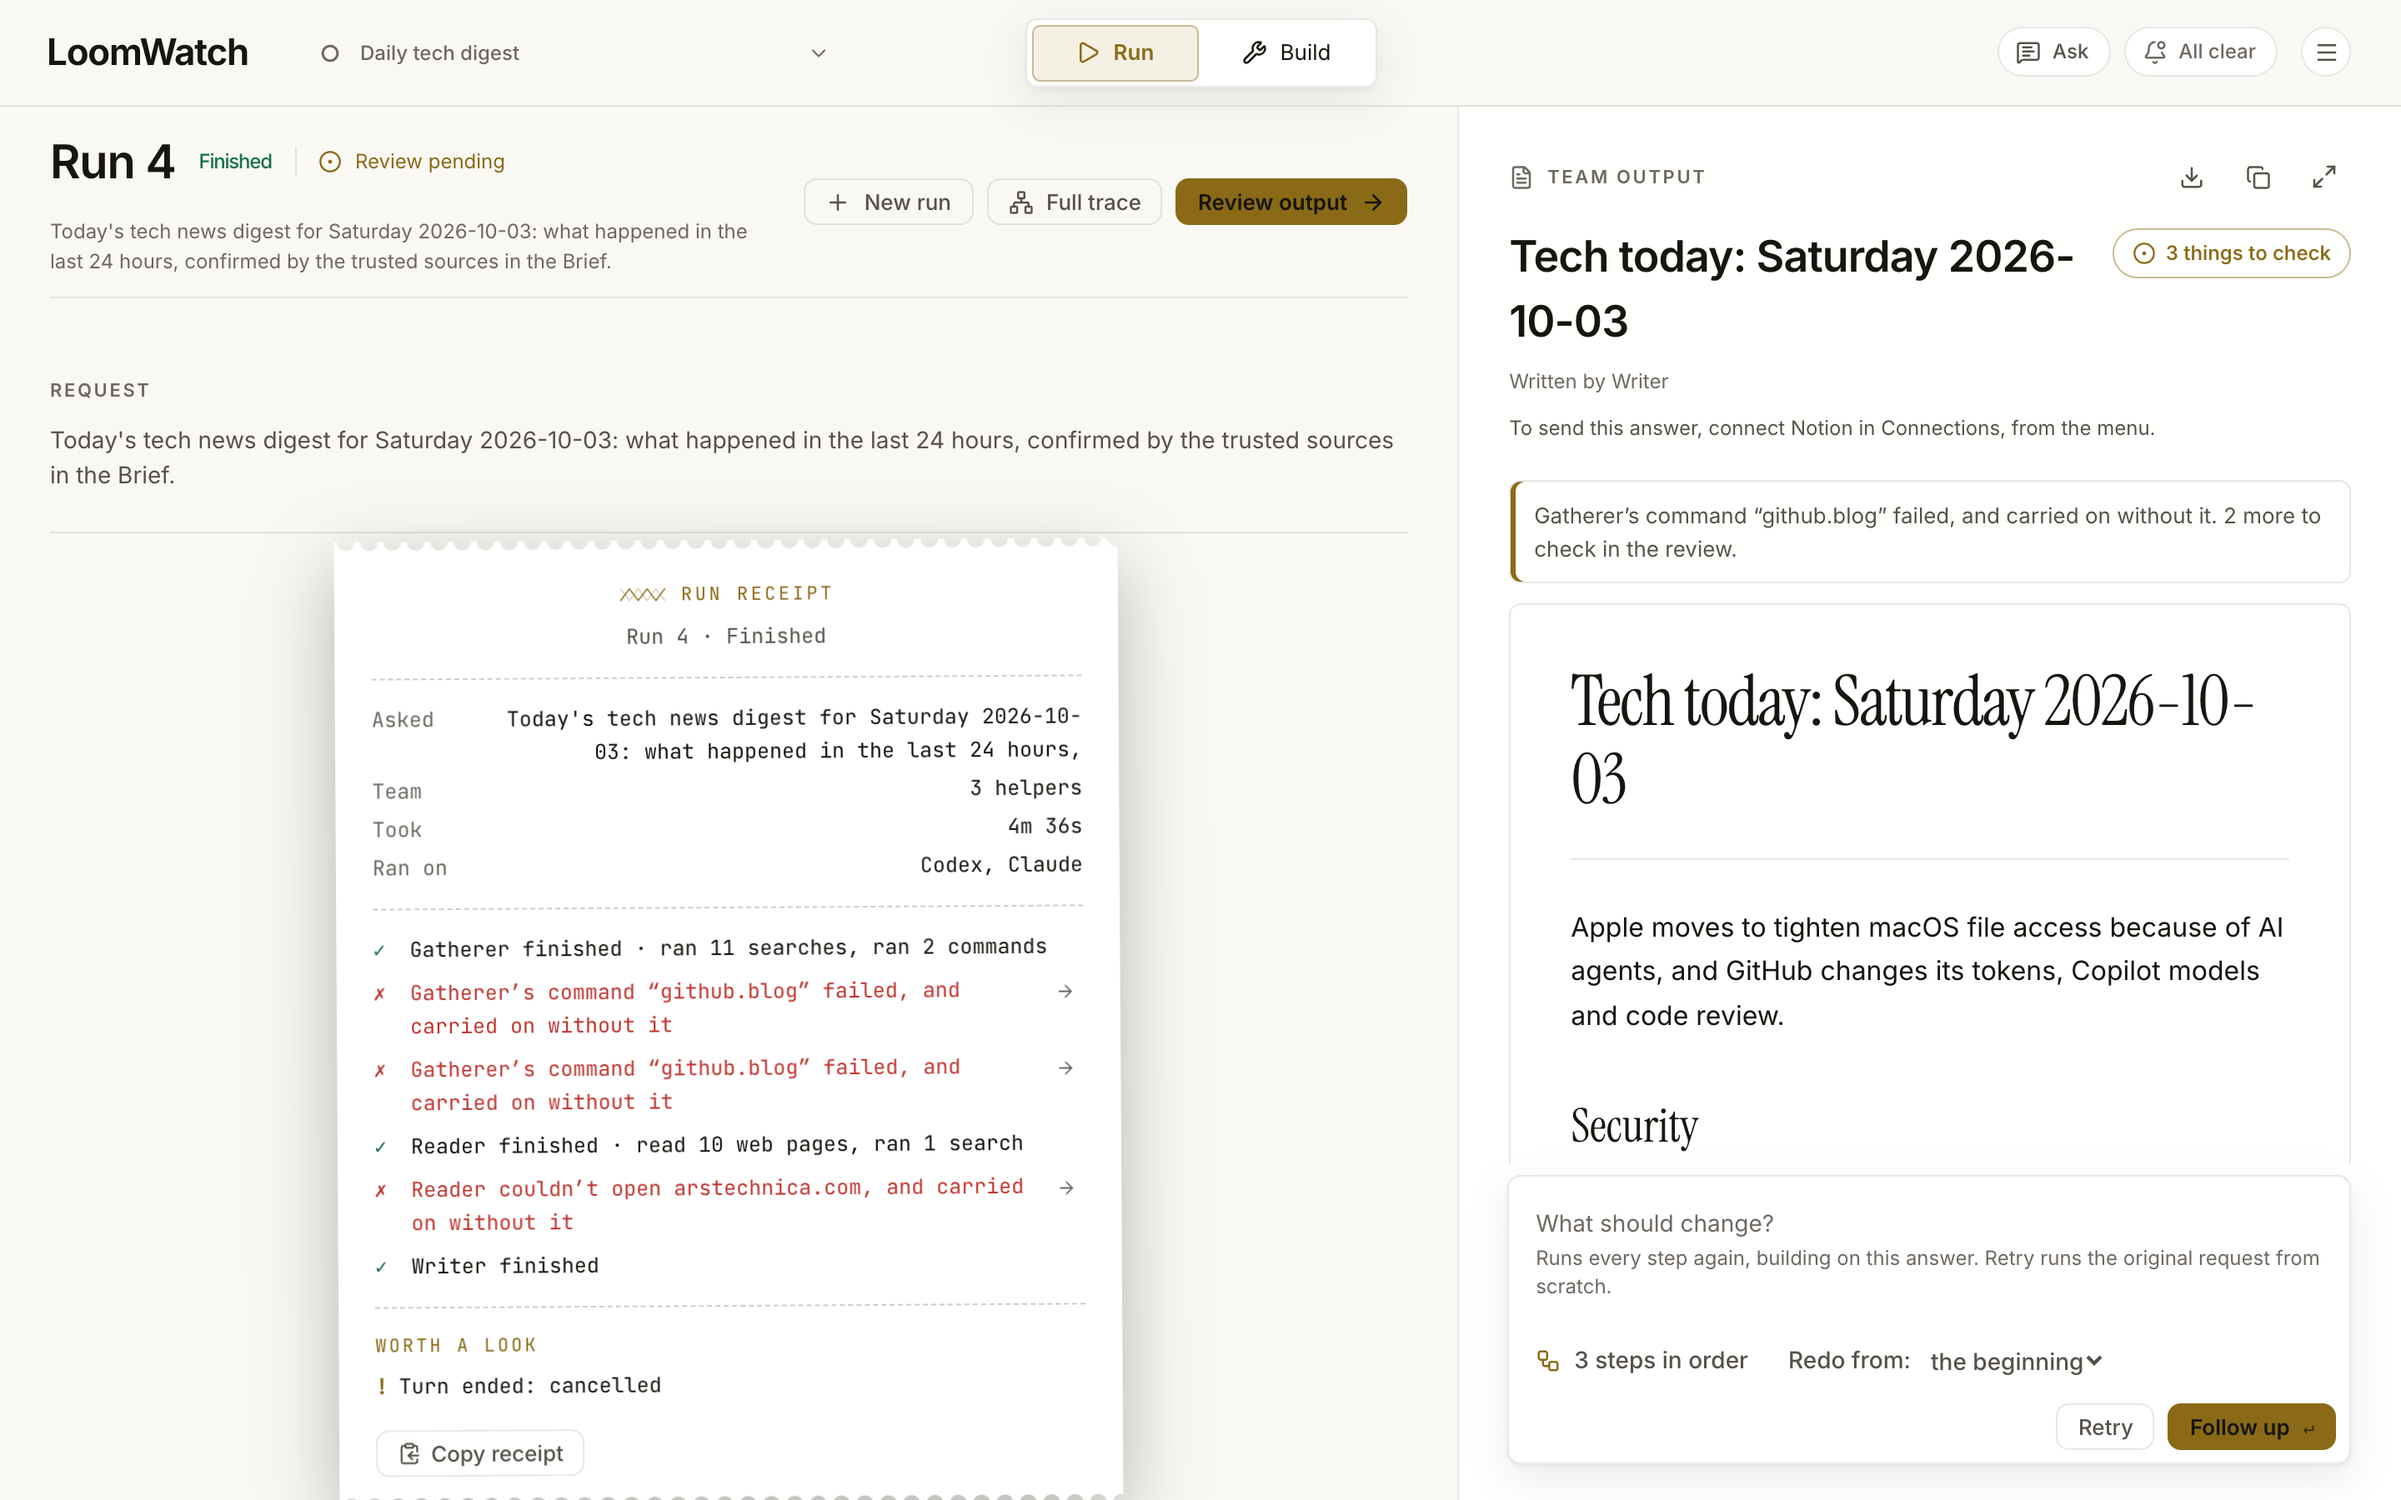
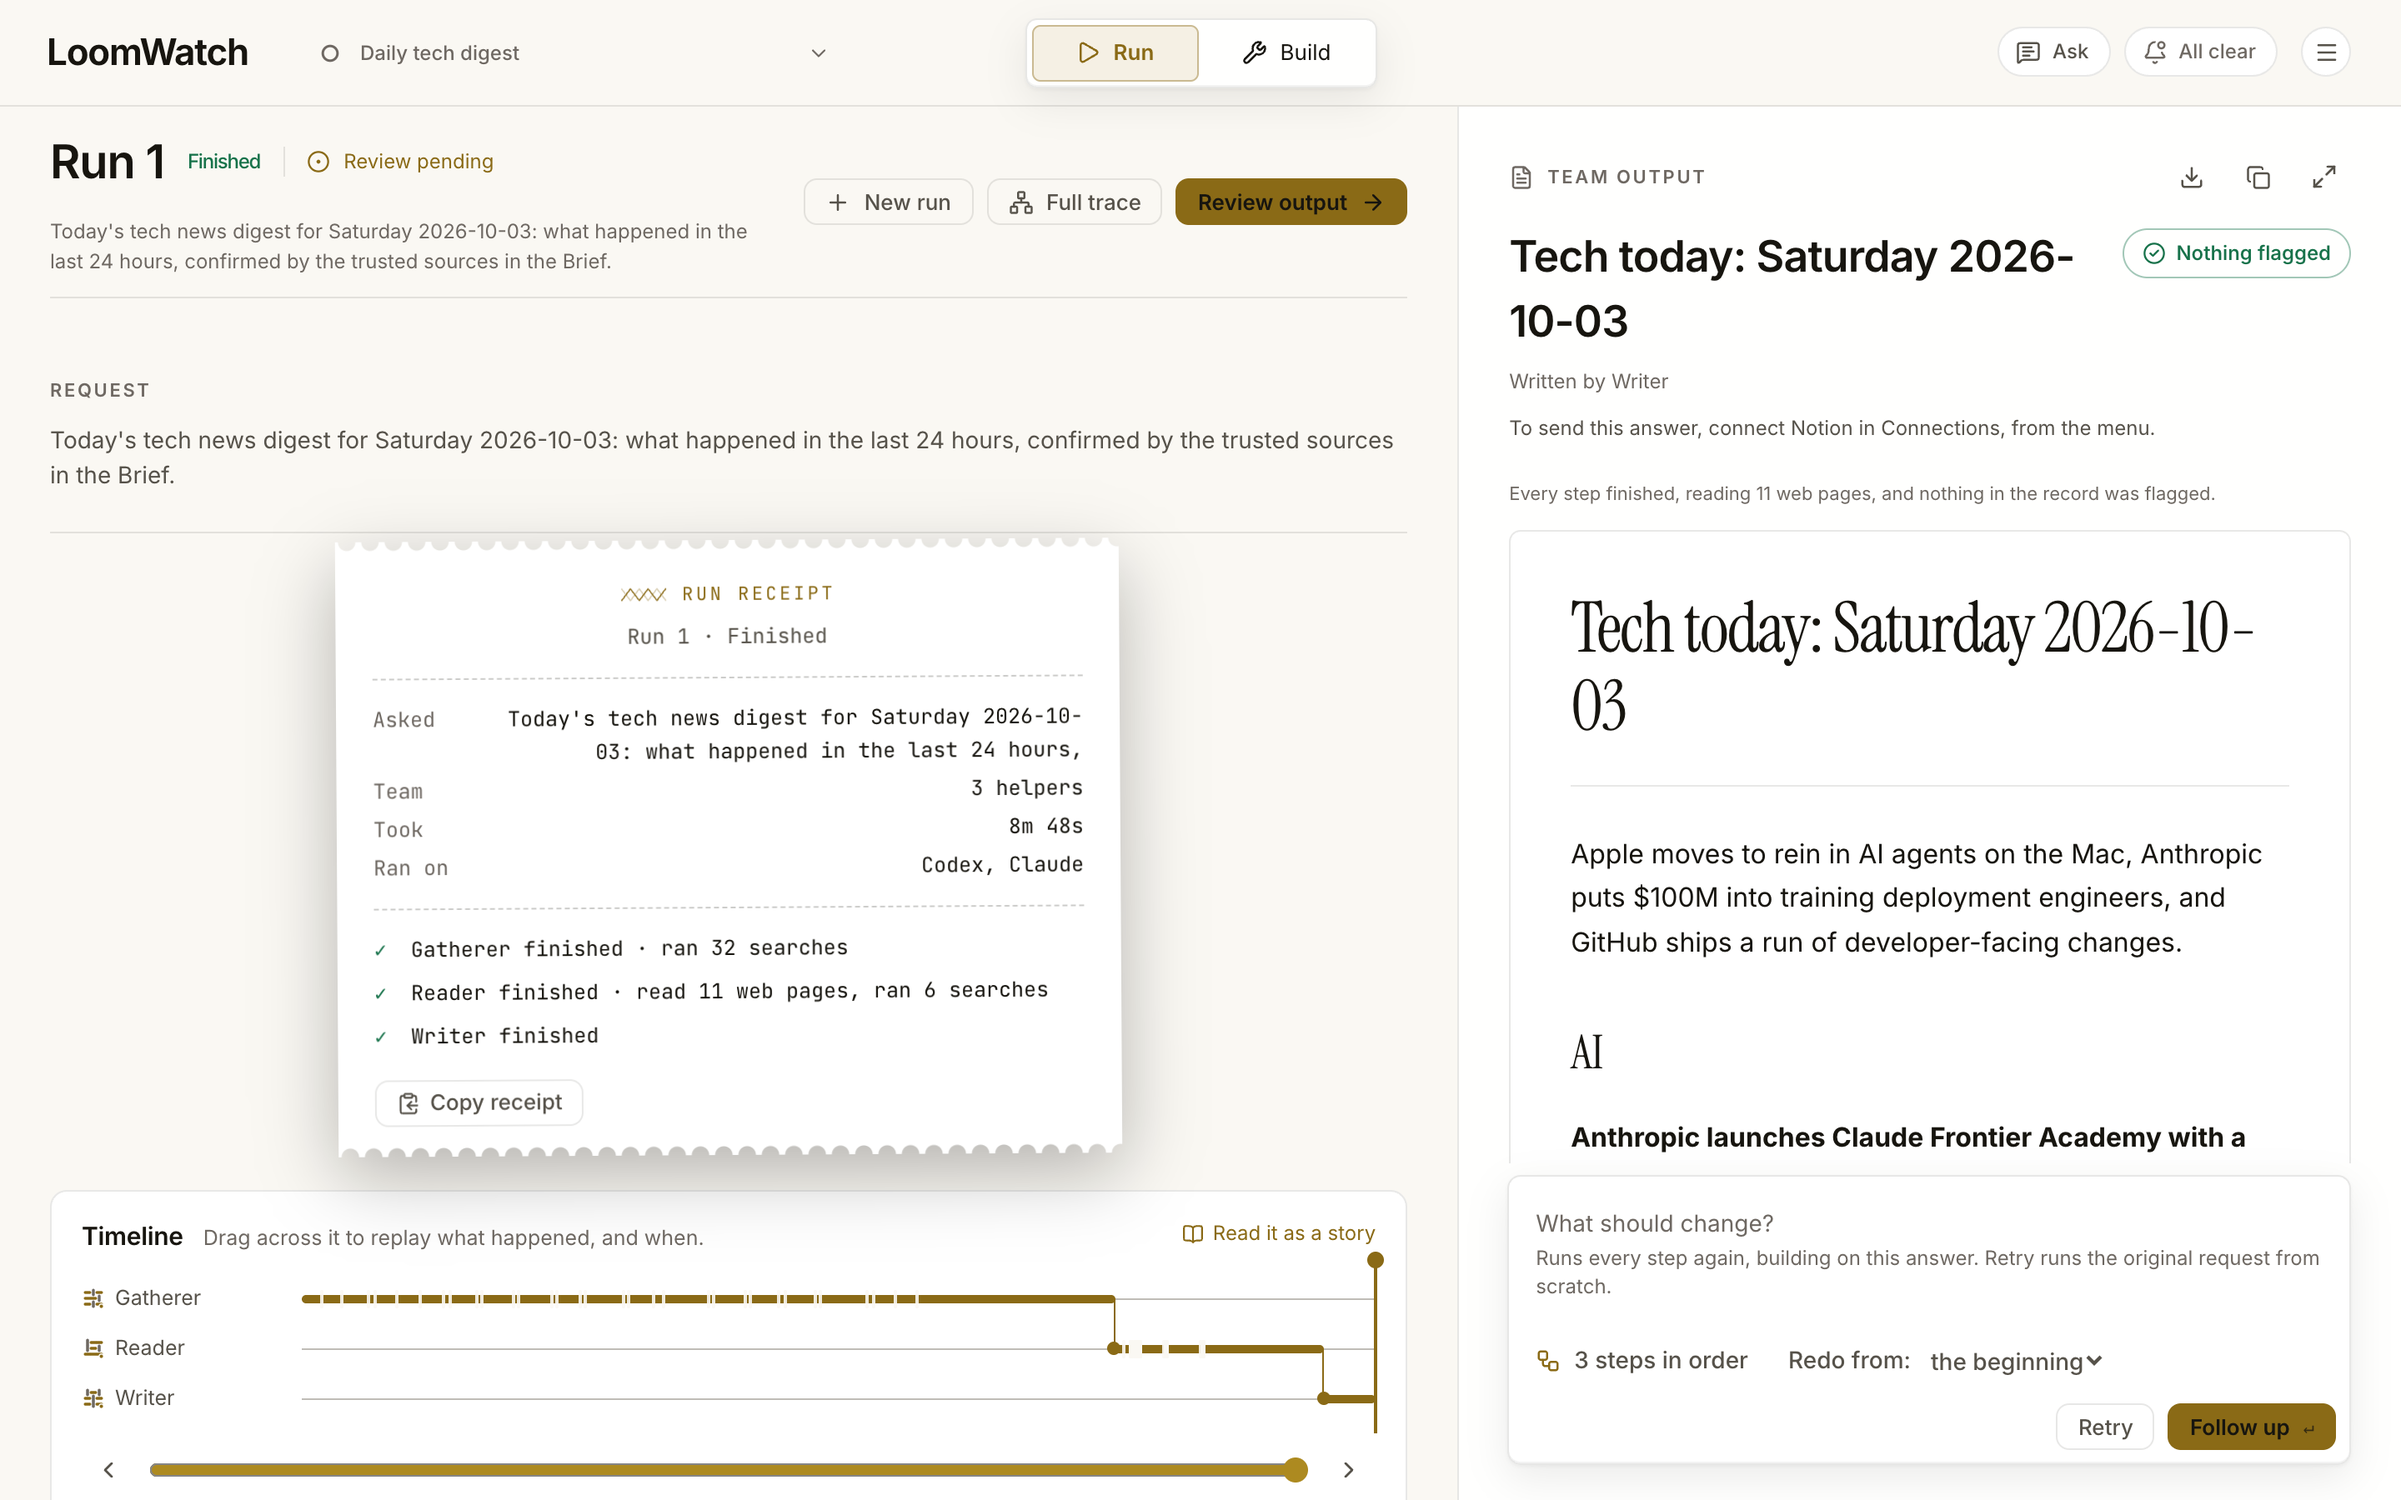
fix(site): show a clean digest run, and confirm blocked newsrooms by search
The digest-done shot showed red receipt lines. Gatherer (Codex) ran curl
with commands off, so its role now says web search only. Reader (Claude)
couldn't open Ars Technica. Claude's page fetch refuses Reuters, AP,
Bloomberg, the FT, The Verge, Ars Technica, Wired and openai.com, so the
Brief names them and Reader confirms their stories through web search.

New shots come from a fresh scheduled run at HEAD: 8m 48s, 12 gathered,
7 kept, 7 in the digest, every step finished, nothing flagged. The page's
numbers, footnote and caption now describe that run.

diff --git a/site/usecases.html b/site/usecases.html
@@ -145,7 +145,7 @@
         <div class="uc-body">
           <dl class="fine">
             <div><dt>Your sources, in a file</dt><dd>The trusted list and the rule for keeping a story sit in the team's Brief, a Markdown file every agent reads. Edit it, and tomorrow's run follows it.</dd></div>
-            <div><dt>Two sources, or it's out</dt><dd>A story stays only if its own primary source says it, or two independent newsrooms report it. Reader opens every source, not just the headline.</dd></div>
+            <div><dt>Two sources, or it's out</dt><dd>A story stays only if its own primary source says it, or two independent newsrooms report it. Reader opens every source it can and checks the rest through web search, never on the headline alone.</dd></div>
             <div><dt>It runs on its own</dt><dd>No stop for you. In a scheduled run anything not switched on is declined, so only web search is on, and only for Gatherer and Reader.</dd></div>
             <div><dt>Two companies at one desk</dt><dd>Codex gathers, Claude reads and writes, so one model never decides alone what's true.</dd></div>
             <div><dt>Teach it once</dt><dd>Write "fewer funding stories" in the Notebook and keep it. Every later digest reads it.</dd></div>
@@ -154,12 +154,12 @@
             <div class="io-ask"><span class="micro">The request it runs</span><p>Today's tech news digest for <span class="ph">{{weekday}}</span> <span class="ph">{{date}}</span>: what happened in the last 24 hours, confirmed by the trusted sources in the Brief.</p></div>
             <div class="io-out">
               <span class="micro">That run, by the numbers</span>
-              <ol class="funnel" aria-label="What happened to the stories in its first real run">
-                <li><b>10</b><span>stories gathered from the list</span></li>
-                <li><b>5</b><span>kept by Reader under the rule</span></li>
-                <li class="kept"><b>5</b><span>in the digest, in 4 min 36 s</span></li>
+              <ol class="funnel" aria-label="What happened to the stories in that run">
+                <li><b>12</b><span>stories gathered from the list</span></li>
+                <li><b>7</b><span>kept by Reader under the rule</span></li>
+                <li class="kept"><b>7</b><span>in the digest, in 8 min 48 s</span></li>
               </ol>
-              <p class="io-foot io-real">Gatherer tried to run <code>curl</code> twice, and neither ran: commands are off, and nobody was there to ask. The receipt says so, and the digest keeps only what Reader could confirm.</p>
+              <p class="io-foot io-real">Seven of the trusted newsrooms won't let Claude open their pages. The Brief names them, so Reader checks their stories through web search instead. The receipt shows every step finished, with nothing flagged.</p>
               <span class="micro io-sub">What comes back <i>example</i></span>
               <div class="digest">
                 <h4>AI</h4>

diff --git a/site/usecases.js b/site/usecases.js
@@ -120,8 +120,8 @@
       cap: 'Build: “Every day at 9:00 AM” leads the sentence, and a schedule card starts the canvas.',
     },
     'digest-done': {
-      alt: 'LoomWatch Run view of a scheduled run: a run receipt listing Gatherer’s 11 searches and two failed commands, Reader reading 10 web pages and failing to open one site, and Writer finished, beside the digest titled Tech today, marked 3 things to check.',
-      cap: 'Its scheduled run, finished: the receipt counts the searches and pages, and flags the two commands that never ran and the one page Reader couldn’t open, beside the digest it wrote.',
+      alt: 'LoomWatch Run view of a scheduled run: a run receipt reading Took 8m 48s, Ran on Codex and Claude, with Gatherer finished after 32 searches, Reader finished after reading 11 web pages and 6 searches, and Writer finished, beside the digest titled Tech today, marked Nothing flagged.',
+      cap: 'Its scheduled run, finished: the receipt counts every search and page each agent used, beside the digest it wrote, with nothing flagged.',
     },
   }
   function paintShots() {

diff --git a/examples/usecases/daily-tech-digest.brief/sources.md b/examples/usecases/daily-tech-digest.brief/sources.md
@@ -27,6 +27,13 @@ its source: follow them to a primary source or a newsroom above.
 A story makes the digest only if its primary source says it, or at least two independent
 newsrooms above report it. For a paywalled page, use only what is visible without paying.
 
+## Sites Claude can't open
+
+Reuters, the Associated Press, Bloomberg, the Financial Times, The Verge, Ars Technica, Wired and
+OpenAI's own site refuse to let Claude open their pages. An agent on Claude shouldn't try: confirm
+what they report through web search instead, from the text the search shows, never the headline
+alone.
+
 ## What I care about
 
 - **Most:** AI models and tools, developer tools, chips and hardware, security incidents, and
